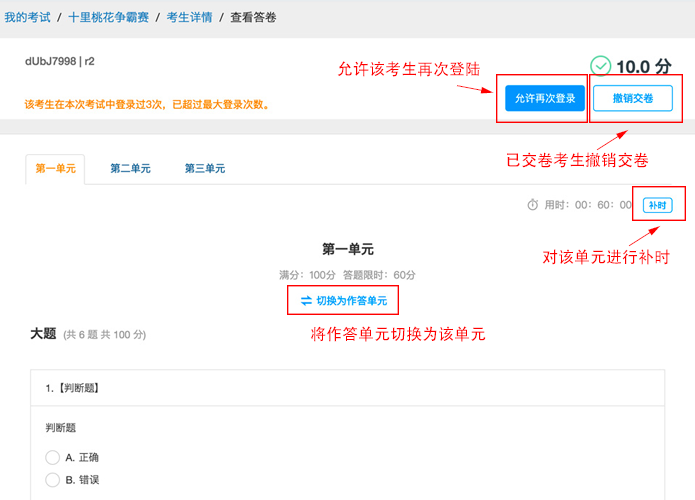
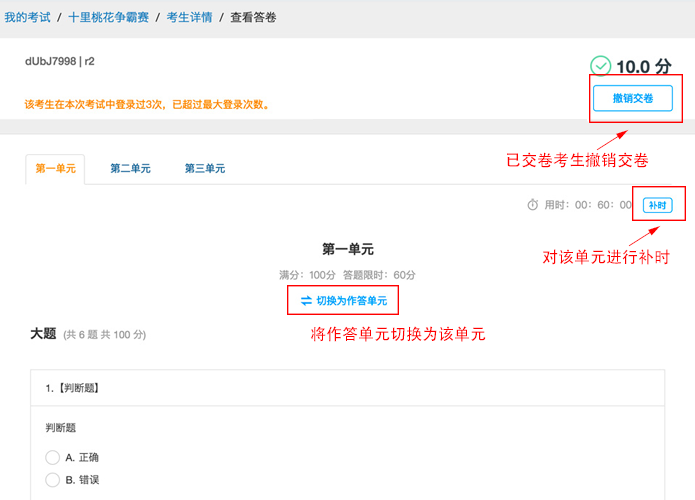
exam

Changed region(s): [[0.4835, 0.12, 0.846, 0.27]]

diff --git a/docs/source/exam.rst b/docs/source/exam.rst
@@ -368,21 +368,29 @@ AB卷或多份试卷
 
 .. image:: _static/04-00.png
 
-四个操作的图解如下：
+考生答题管理操作界面如下：
 
 .. image:: _static/04-01.png
+
+允许再次登陆：
+
+.. image:: _static/04-03.png
 
 单元补时：
 
 .. image:: _static/04-02.png
 
+显示已补时的时间：
+
+.. image:: _static/04-04.png
+
 **注意事项：**
 
-1.撤销交卷后考生可以再次登录考试，但是如果考生登录次数超过最大限制，则还需要允许再次登陆才能继续考试；
+1.撤销交卷后考生可以再次登录考试，但是如果考生登录次数超过最大限制，则先撤销交卷，再允许再次登陆才能继续考试；
 
 2.撤销交卷不会改变事变剩余时间以及登录离开页面的数，若之前离开页面次数超次导致交卷，则撤销交卷后再登录答题也没有多余离开页面次数。
 
-3.切换作答单元需要在考生登出后在执行（不可在考生考试中执行），切换后考生从本单元开始向后顺序作答，原单元已答题会保存。
+3.切换作答单元时会自动将考生登出，切换后考生从本单元开始向后顺序作答，原单元已答题会保存。
 
 批量操作
 ----------
